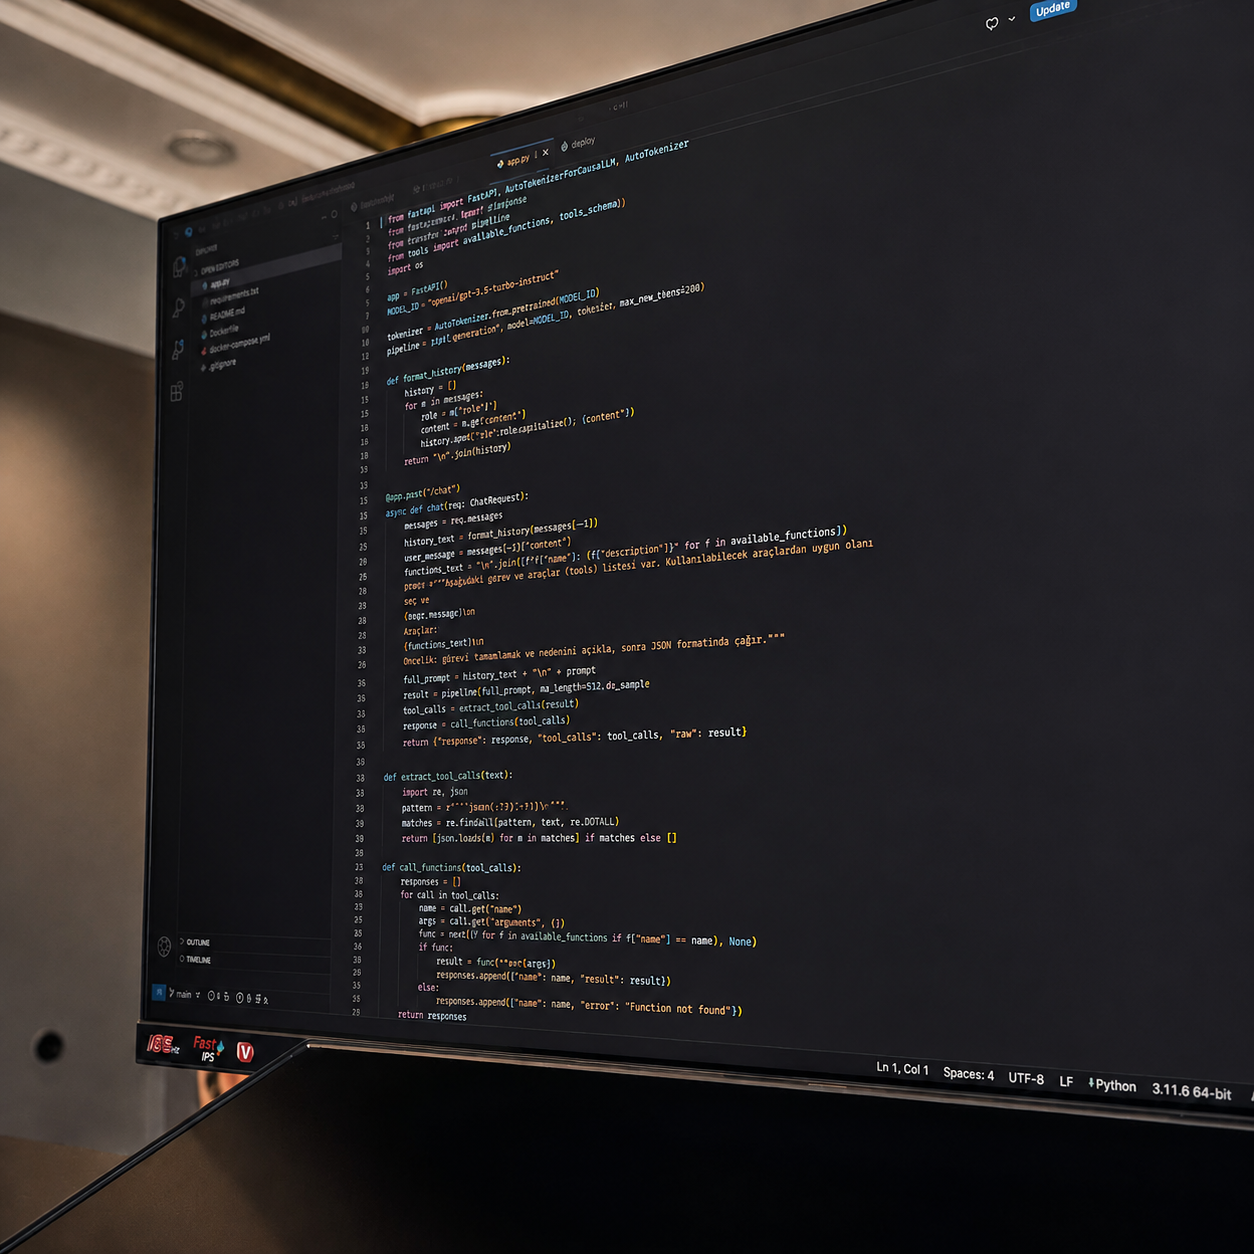
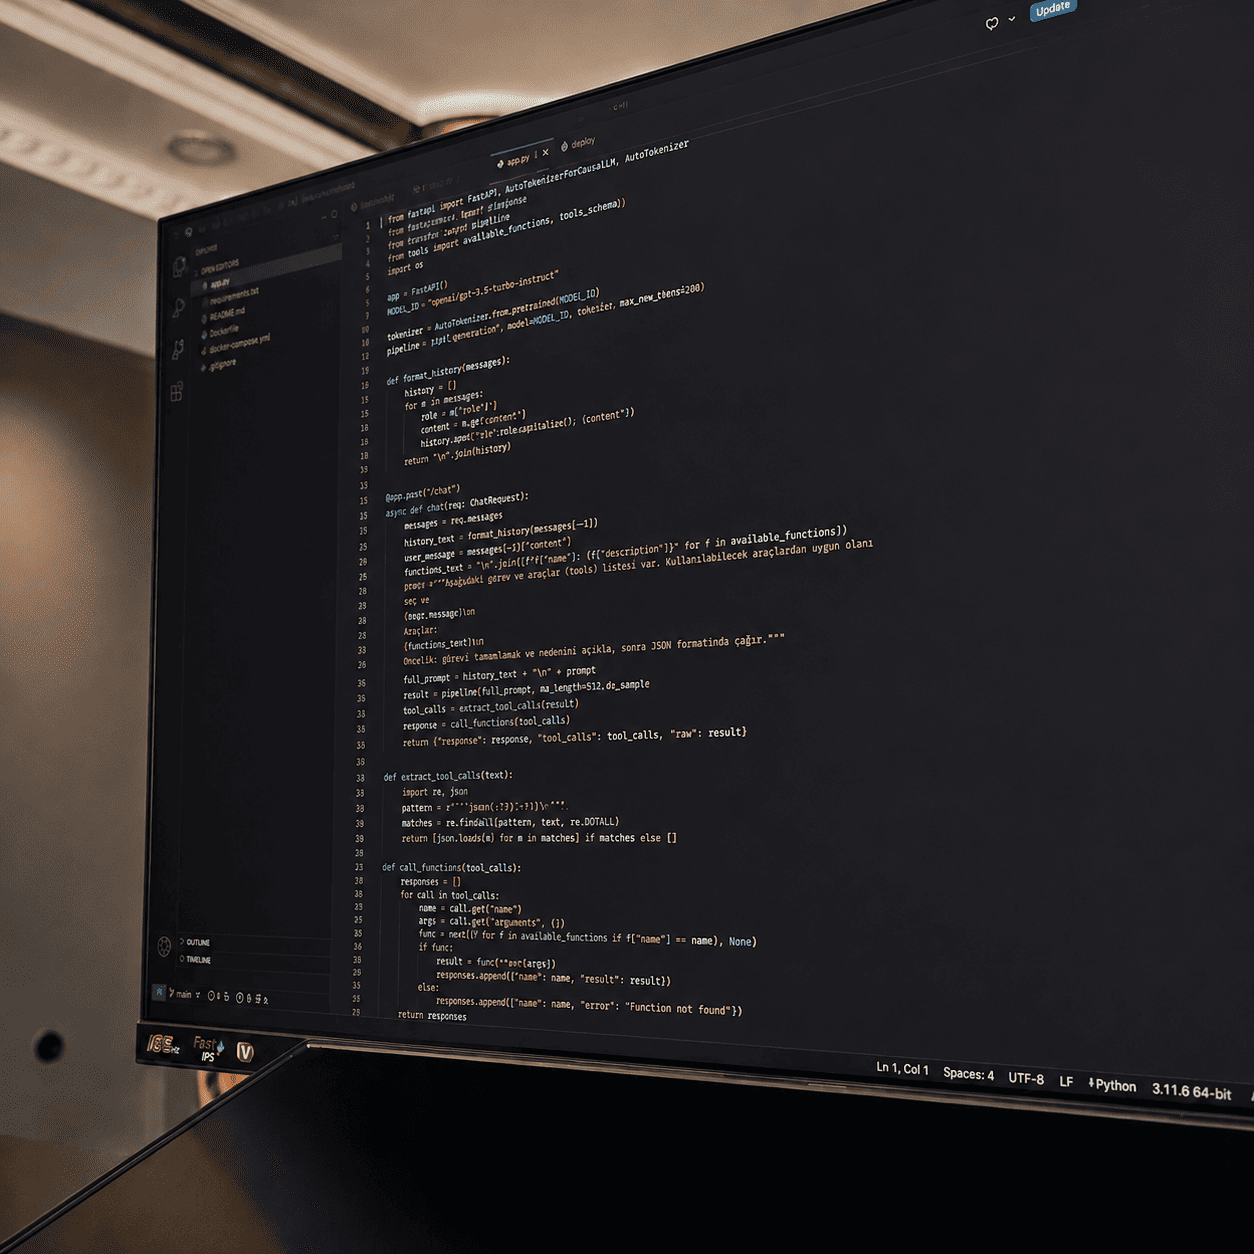
Update about section images and fix manufacturing image path

diff --git a/components/AboutScroll.tsx b/components/AboutScroll.tsx
@@ -16,7 +16,7 @@ const content = [
     title: "Manufacturing",
     heading: "Yüksek Hassasiyetli Üretim",
     description: "ESC ve uçuş kontrol kartları başta olmak üzere, geliştirdiğimiz elektronik donanımların PCB dizgi, montaj ve test süreçlerini kendi tesislerimizde gerçekleştiriyoruz.",
-    image: "/img/about/manufacturing-new.png",
+    image: "/img/about/manufacturing.png",
   },
   {
     id: "software",
